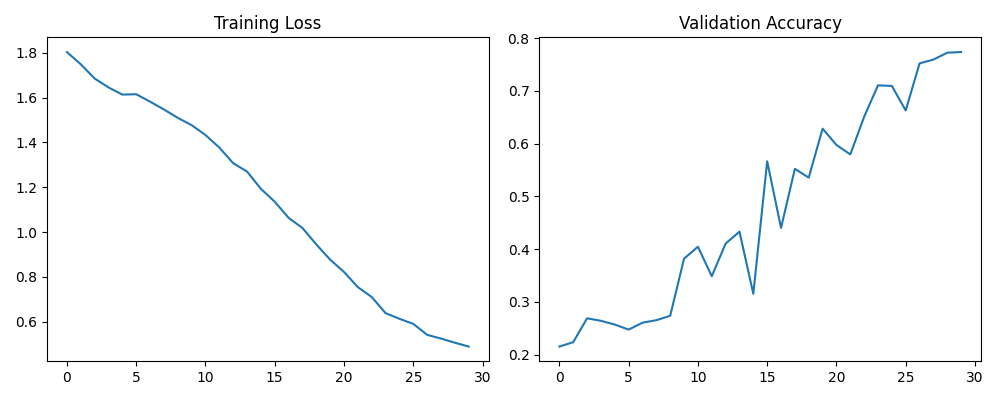
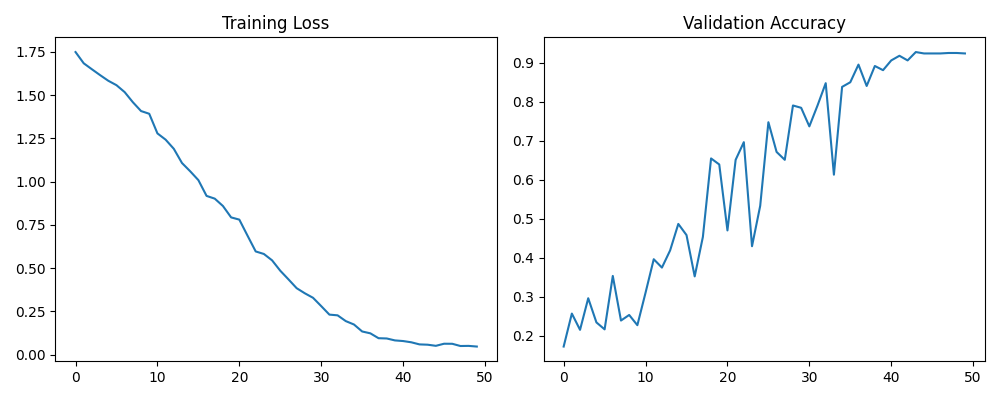
good result

diff --git a/codes/task5/src/test.py b/codes/task5/src/test.py
@@ -7,9 +7,9 @@ from dataset import CarBrandDataset
 from improved_cnn import ImprovedCNN
 
 BASE_DIR = r"D:\DeepLearning\Image-Understanding-and-Machine-Vision\codes\task5"
-DATA_DIR = os.path.join(BASE_DIR, "data", "augmented")
+DATA_DIR = os.path.join(BASE_DIR, "data", "cars")
 TEST_CSV = os.path.join(BASE_DIR, "data", "test.csv")
-MODEL_PATH = os.path.join(BASE_DIR, "models", "improved_cnn_best.pth")
+MODEL_PATH = os.path.join(BASE_DIR, "models", "improved_cnn_best1.pth")
 
 DEVICE = torch.device("cuda" if torch.cuda.is_available() else "cpu")
 

diff --git a/codes/task5/src/train.py b/codes/task5/src/train.py
@@ -18,12 +18,12 @@ DEVICE = torch.device("cuda" if torch.cuda.is_available() else "cpu")
 
 # ========== 配置 ==========
 BASE_DIR = r"D:\DeepLearning\Image-Understanding-and-Machine-Vision\codes\task5"
-DATA_DIR = os.path.join(BASE_DIR, "data", "augmented")
+DATA_DIR = os.path.join(BASE_DIR, "data", "cars")
 TRAIN_CSV = os.path.join(BASE_DIR, "data", "train.csv")
 VAL_CSV   = os.path.join(BASE_DIR, "data", "val.csv")
 
 BATCH_SIZE = 64
-EPOCHS = 30
+EPOCHS = 50
 LEARNING_RATE = 1e-3
 WEIGHT_DECAY = 1e-4
 # ==========================
